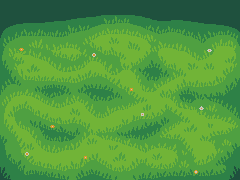
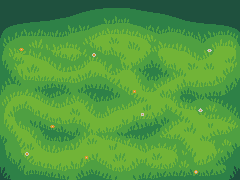
feat: ui button feedback and other visual polish

diff --git a/src/Game.cpp b/src/Game.cpp
@@ -18,6 +18,7 @@ namespace SnakeGame
 		srand(seed);
 
 		InitResources(game.resources);
+		game.background.setTexture(game.resources.background);
 		InitConfig(game.config);
 
 		float gameHeight = (LEVEL_HEIGHT + HUD_HEIGHT) * CELL_SIZE;
@@ -76,6 +77,7 @@ namespace SnakeGame
 
 	void DrawGame(Game &game, sf::RenderTexture &texture)
 	{
+		texture.draw(game.background);
 		switch (game.gameState)
 		{
 		case GameState::MainMenu:
@@ -135,6 +137,16 @@ namespace SnakeGame
 		menu.selected = 0;
 		menu.firstDisplayedItem = 0;
 		game.menuLayers.push_back(menu);
+
+		if (menuState == MenuState::Resolution)
+		{
+			UpdateSubMenuItems(game.menuLayers.back(), game, static_cast<int>(game.config.windowResolution));
+		}
+		else if (menuState == MenuState::Difficulty)
+		{
+			UpdateSubMenuItems(game.menuLayers.back(), game, static_cast<int>(game.config.difficulty));
+		}
+
 		UpdateMenuLayer(game);
 	}
 
@@ -210,7 +222,14 @@ namespace SnakeGame
 
 	void HandleMenuImput(Game &game, const sf::Event &event)
 	{
-		if (event.type == sf::Event::KeyPressed && event.key.code == sf::Keyboard::Escape)
+		static bool enterHeld = false;
+		if (event.type == sf::Event::KeyPressed && event.key.code == sf::Keyboard::Enter)
+		{
+			game.menuLayers.back().items[game.menuLayers.back().selected].pressed = true;
+			UpdateMenuLayer(game);
+			enterHeld = true;
+		}
+		else if (event.type == sf::Event::KeyPressed && event.key.code == sf::Keyboard::Escape)
 		{
 			if (game.menuLayers.size() > 1)
 			{
@@ -222,7 +241,7 @@ namespace SnakeGame
 				SetGameState(game, GameState::GameLoop);
 			}
 		}
-		else if (event.type == sf::Event::KeyPressed && event.key.code == sf::Keyboard::Up)
+		else if (!enterHeld && event.type == sf::Event::KeyPressed && event.key.code == sf::Keyboard::Up)
 		{
 			game.menuLayers.back().selected -= 1;
 			if (game.menuLayers.back().selected < 0)
@@ -231,7 +250,7 @@ namespace SnakeGame
 			}
 			UpdateMenuSelectedItem(game.ui, game.menuLayers.back());
 		}
-		else if (event.type == sf::Event::KeyPressed && event.key.code == sf::Keyboard::Down)
+		else if (!enterHeld && event.type == sf::Event::KeyPressed && event.key.code == sf::Keyboard::Down)
 		{
 			game.menuLayers.back().selected += 1;
 			if (game.menuLayers.back().selected > game.menuLayers.back().items.size() - 1)
@@ -240,45 +259,64 @@ namespace SnakeGame
 			}
 			UpdateMenuSelectedItem(game.ui, game.menuLayers.back());
 		}
-		else if (event.type == sf::Event::KeyPressed && event.key.code == sf::Keyboard::Enter)
+		else if (event.type == sf::Event::KeyReleased && event.key.code == sf::Keyboard::Enter)
 		{
-			switch (game.menuLayers.back().items[game.menuLayers.back().selected].actionType)
+			enterHeld = false;
+			game.menuLayers.back().items[game.menuLayers.back().selected].pressed = false;
+			if (game.menuLayers.back().items[game.menuLayers.back().selected].enabled)
 			{
-			case MenuActionType::SwitchGameState:
-				SetGameState(game, static_cast<GameState>(game.menuLayers.back().items[game.menuLayers.back().selected].actionTarget));
-				break;
-			case MenuActionType::SwitchMenuState:
-				SetMenuState(game, static_cast<MenuState>(game.menuLayers.back().items[game.menuLayers.back().selected].actionTarget));
-				break;
-			case MenuActionType::StartGame:
-				SetGameState(game, GameState::GameLoop);
-				StartGameLoop(game);
-				break;
-			case MenuActionType::PreviousMenu:
-				if (game.menuLayers.size() > 1)
+				switch (game.menuLayers.back().items[game.menuLayers.back().selected].actionType)
 				{
-					game.menuLayers.pop_back();
+				case MenuActionType::SwitchGameState:
+					SetGameState(game, static_cast<GameState>(game.menuLayers.back().items[game.menuLayers.back().selected].actionTarget));
+					break;
+				case MenuActionType::SwitchMenuState:
+					SetMenuState(game, static_cast<MenuState>(game.menuLayers.back().items[game.menuLayers.back().selected].actionTarget));
+					break;
+				case MenuActionType::StartGame:
+					SetGameState(game, GameState::GameLoop);
+					StartGameLoop(game);
+					break;
+				case MenuActionType::PreviousMenu:
+					if (game.menuLayers.size() > 1)
+					{
+						game.menuLayers.pop_back();
+						UpdateMenuLayer(game);
+					}
+					break;
+				case MenuActionType::SetScreenScale:
+					game.config.windowResolution = static_cast<WindowResolution>(game.menuLayers.back().items[game.menuLayers.back().selected].actionTarget);
+					SaveConfig(game.config);
+					SetRendererResolution(game.renderer, game.config.windowResolution);
+					UpdateSubMenuItems(game.menuLayers.back(), game, static_cast<int>(game.config.windowResolution));
 					UpdateMenuLayer(game);
-				}
-				break;
-			case MenuActionType::SetScreenScale:
-				game.config.windowResolution = static_cast<WindowResolution>(game.menuLayers.back().items[game.menuLayers.back().selected].actionTarget);
-				SaveConfig(game.config);
-				SetRendererResolution(game.renderer, game.config.windowResolution);
-				break;
-			case MenuActionType::SetDifficulty:
-				game.config.difficulty = static_cast<GameDifficulty>(game.menuLayers.back().items[game.menuLayers.back().selected].actionTarget);
-				SaveConfig(game.config);
-				if (game.menuLayers.size() > 1)
-				{
-					game.menuLayers.pop_back();
+					break;
+				case MenuActionType::SetDifficulty:
+					game.config.difficulty = static_cast<GameDifficulty>(game.menuLayers.back().items[game.menuLayers.back().selected].actionTarget);
+					SaveConfig(game.config);
+					UpdateSubMenuItems(game.menuLayers.back(), game, static_cast<int>(game.config.difficulty));
 					UpdateMenuLayer(game);
+					break;
+				default:
+					break;
 				}
-				break;
-			default:
-				break;
 			}
 		};
+	}
+
+	void UpdateSubMenuItems(Menu &menu, Game &game, int actionTarget)
+	{
+		for (int i = 0; i < menu.items.size(); i++)
+		{
+			if (menu.items[i].actionTarget == actionTarget)
+			{
+				menu.items[i].enabled = false;
+			}
+			else
+			{
+				menu.items[i].enabled = true;
+			}
+		}
 	}
 
 	int GetScoreMultiplier(GameDifficulty gameDifficulty)

diff --git a/src/UI.cpp b/src/UI.cpp
@@ -32,6 +32,13 @@ namespace SnakeGame
         ui.menuLabel.setFillColor(sf::Color::White);
         SetTextRelativePosition(ui.menuLabel, 0.5f, 0.1f);
 
+        ui.menuLabelShadow.setString("menuLabel");
+        ui.menuLabelShadow.setFont(resources.font);
+        ui.menuLabelShadow.setStyle(sf::Text::Bold);
+        ui.menuLabelShadow.setCharacterSize(48);
+        ui.menuLabelShadow.setFillColor(COLOR_SHADOW);
+        ui.menuLabelShadow.setPosition({ui.menuLabel.getPosition().x + 2, ui.menuLabel.getPosition().y + 2});
+
         ui.menuButtons.clear();
         ui.menuButtons.resize(NUM_MENU_BUTTONS);
         for (size_t i = 0; i < ui.menuButtons.size(); ++i)
@@ -94,6 +101,8 @@ namespace SnakeGame
         {
             ui.menuLabel.setString(menu.label);
             SetTextRelativeOrigin(ui.menuLabel, 0.5f, 0.5f);
+            ui.menuLabelShadow.setString(menu.label);
+            SetTextRelativeOrigin(ui.menuLabelShadow, 0.5f, 0.5f);
         }
         else if (menu.type == MenuType::SubMenu)
         {
@@ -105,7 +114,8 @@ namespace SnakeGame
         {
             if (i + menu.firstDisplayedItem < menu.items.size())
             {
-                UpdateMenuBottonText(ui.menuButtons[i], menu.items[i + menu.firstDisplayedItem].label);
+                MenuItem &item = menu.items[i + menu.firstDisplayedItem];
+                UpdateMenuBottonText(ui.menuButtons[i], item.label, item.enabled, item.pressed);
             }
         }
     }
@@ -122,7 +132,10 @@ namespace SnakeGame
             menu.firstDisplayedItem = menu.selected;
             UpdateMenuUI(ui, menu);
         }
-        sf::FloatRect itemRect = ui.menuButtons[menu.selected - menu.firstDisplayedItem].sprite.getGlobalBounds();
+
+        sf::FloatRect itemRect = ui.menuButtons[menu.selected - menu.firstDisplayedItem].spriteEnabled.getGlobalBounds();
+        if (!menu.items[menu.selected].enabled || menu.items[menu.selected].pressed)
+            itemRect.top++;
         UpdateSelectorPosition(ui.selector, itemRect);
 
         if (ui.menuButtons.size() < menu.items.size())
@@ -136,6 +149,7 @@ namespace SnakeGame
     void DrawMenuUI(UI &ui, Menu &menu, sf::RenderTexture &texture)
     {
         texture.draw(ui.tint);
+        texture.draw(ui.menuLabelShadow);
         texture.draw(ui.menuLabel);
         if (menu.type == MenuType::SubMenu)
         {
@@ -149,7 +163,13 @@ namespace SnakeGame
         {
             if (i < menu.items.size())
             {
-                texture.draw(ui.menuButtons[i].sprite);
+                if (menu.items[menu.firstDisplayedItem + i].pressed)
+                    texture.draw(ui.menuButtons[i].spritePressed);
+                else if (menu.items[menu.firstDisplayedItem + i].enabled)
+                    texture.draw(ui.menuButtons[i].spriteEnabled);
+                else
+                    texture.draw(ui.menuButtons[i].spriteDisabled);
+
                 texture.draw(ui.menuButtons[i].label);
             }
         }
@@ -197,26 +217,32 @@ namespace SnakeGame
         button.label.setFont(resources.font);
         button.label.setCharacterSize(16);
         button.label.setFillColor(COLOR_TEXT);
-        button.sprite.setTexture(resources.button);
+        button.spriteEnabled.setTexture(resources.buttonEnabled);
+        button.spriteDisabled.setTexture(resources.buttonDisabled);
+        button.spritePressed.setTexture(resources.buttonPressed);
 
-        sf::FloatRect spriteRect = button.sprite.getLocalBounds();
-        sf::Vector2f origin = {std::round(spriteRect.width / 2), 0.f};
-        button.sprite.setOrigin(origin);
+        sf::FloatRect spriteRect = button.spriteEnabled.getLocalBounds();
+        button.spriteEnabled.setOrigin({std::round(spriteRect.width / 2), 0.f});
+        button.spriteDisabled.setOrigin({std::round(spriteRect.width / 2), -1.f});
+        button.spritePressed.setOrigin({std::round(spriteRect.width / 2), -1.f});
     }
 
     void UpdateMenuBottonPosition(Button &button, int positionY)
     {
         sf::Vector2f position = {std::round(LEVEL_WIDTH * CELL_SIZE / 2), (float)positionY};
-        button.sprite.setPosition(position);
+        button.spriteEnabled.setPosition(position);
+        button.spriteDisabled.setPosition(position);
+        button.spritePressed.setPosition(position);
         button.label.setPosition(position);
     }
 
-    void UpdateMenuBottonText(Button &button, std::string text)
+    void UpdateMenuBottonText(Button &button, std::string text, bool enabled, bool pressed)
     {
         button.label.setString(text);
-        sf::FloatRect textRect = button.label.getLocalBounds();
-        sf::Vector2f origin = {std::round(textRect.width / 2), 4.f};
-        button.label.setOrigin(origin);
+        if (!enabled || pressed)
+            button.label.setOrigin({std::round(button.label.getLocalBounds().width / 2), 3.f});
+        else
+            button.label.setOrigin({std::round(button.label.getLocalBounds().width / 2), 4.f});
     }
 
     void UpdateSelectorPosition(Selector &selector, sf::FloatRect target)

diff --git a/src/Resources.cpp b/src/Resources.cpp
@@ -12,7 +12,10 @@ namespace SnakeGame
         assert(resources.background.loadFromFile(std::string(RESOURCES_PATH) + "/graphics/background.png"));
         assert(resources.font.loadFromFile(std::string(RESOURCES_PATH) + "/fonts/monogram.ttf"));
 
-        resources.button = CreateNineSliceTexture(resources.atlas, GetTextureRect(TextureID::UIFrame1), 90, 19);
+        resources.buttonEnabled = CreateNineSliceTexture(resources.atlas, GetTextureRect(TextureID::UIFrame1), 90, 19);
+        resources.buttonDisabled = CreateNineSliceTexture(resources.atlas, GetTextureRect(TextureID::UIFrame3), 90, 18);
+        resources.buttonPressed = CreateNineSliceTexture(resources.atlas, GetTextureRect(TextureID::UIFrame2), 90, 18);
+
         resources.subMenu = CreateNineSliceTexture(resources.atlas, GetTextureRect(TextureID::UIFrame3), 120, 113);
         resources.subMenuTitle = CreateNineSliceTexture(resources.atlas, GetTextureRect(TextureID::UIFrame2), 100, 17);
         resources.hud = CreateNineSliceTexture(resources.atlas, GetTextureRect(TextureID::HUD), LEVEL_WIDTH * CELL_SIZE, HUD_HEIGHT * CELL_SIZE);

diff --git a/include/UI.h b/include/UI.h
@@ -8,7 +8,9 @@ namespace SnakeGame
 {
     struct Button
     {
-        sf::Sprite sprite;
+        sf::Sprite spriteEnabled;
+        sf::Sprite spriteDisabled;
+        sf::Sprite spritePressed;
         sf::Text label;
     };
 
@@ -31,6 +33,7 @@ namespace SnakeGame
         Selector selector;
         std::vector<Button> menuButtons;
         sf::Text menuLabel;
+        sf::Text menuLabelShadow;
         sf::RectangleShape tint;
 
         sf::Sprite menuUp;
@@ -50,6 +53,6 @@ namespace SnakeGame
     void DrawHud(UI &ui, sf::RenderTexture &texture);
     void InitMenuButton(Button &button, Resources &resources);
     void UpdateMenuBottonPosition(Button &button, int positionY);
-    void UpdateMenuBottonText(Button &button, std::string text);
+    void UpdateMenuBottonText(Button &button, std::string text, bool enabled, bool pressed);
     void UpdateSelectorPosition(Selector &selector, sf::FloatRect target);
 }

diff --git a/src/Level.cpp b/src/Level.cpp
@@ -10,7 +10,6 @@ namespace SnakeGame
     {
         LoadLevel(level.config, std::string(RESOURCES_PATH) + "/levels/level1.lvl");
 
-        level.background.setTexture(resources.background);
         for (int x = 0; x < LEVEL_WIDTH; x++)
         {
             for (int y = 0; y < LEVEL_HEIGHT; y++)
@@ -50,7 +49,6 @@ namespace SnakeGame
 
     void DrawLevel(Level &level, sf::RenderTexture &texture)
     {
-        texture.draw(level.background);
         texture.draw(level.apple.sprite);
         for (int i = 0; i < level.walls.size(); i++)
         {

diff --git a/include/Game.h b/include/Game.h
@@ -19,6 +19,8 @@ namespace SnakeGame
 		Renderer renderer;
 		Resources resources;
 
+		sf::Sprite background;
+
 		GameState gameState;
 		Level level;
 		Snake snake;
@@ -43,5 +45,6 @@ namespace SnakeGame
 	void StartGameLoop(Game &game);
 	void UpdateGameLoop(Game &game, const float deltaTime);
 	void HandleMenuImput(Game &game, const sf::Event &event);
+	void UpdateSubMenuItems(Menu &menu, Game &game, int actionTarget);
 	int GetScoreMultiplier(GameDifficulty gameDifficulty);
 }

diff --git a/include/Resources.h b/include/Resources.h
@@ -69,7 +69,9 @@ namespace SnakeGame
         sf::Texture background;
         sf::Font font;
 
-        sf::Texture button;
+        sf::Texture buttonEnabled;
+        sf::Texture buttonDisabled;
+        sf::Texture buttonPressed;
         sf::Texture subMenu;
         sf::Texture subMenuTitle;
 

diff --git a/include/Constants.h b/include/Constants.h
@@ -15,6 +15,6 @@ namespace SnakeGame
 	const int NUM_MENU_BUTTONS = 4;
 
 	const sf::Color COLOR_TINT(0, 0, 0, 100);
-	const sf::Color COLOR_BASE(128, 107, 91);
+	const sf::Color COLOR_SHADOW(0, 0, 0, 150);
 	const sf::Color COLOR_TEXT(54, 46, 40);
 }

diff --git a/src/main.cpp b/src/main.cpp
@@ -26,7 +26,7 @@ int main()
 
 		UpdateGame(game, deltaTime);
 
-		game.renderer.gameTexture.clear(COLOR_BASE);
+		game.renderer.gameTexture.clear();
 		DrawGame(game, game.renderer.gameTexture);
 		game.renderer.gameTexture.display();
 

diff --git a/include/Level.h b/include/Level.h
@@ -41,7 +41,6 @@ namespace SnakeGame
         CellType cells[LEVEL_WIDTH][LEVEL_HEIGHT];
         std::vector<Wall> walls;
         Apple apple;
-        sf::Sprite background;
 
         int countEmptyCells;
     };

diff --git a/include/Menu.h b/include/Menu.h
@@ -35,6 +35,8 @@ namespace SnakeGame
         std::string label;
         MenuActionType actionType;
         int actionTarget;
+        bool enabled = true;
+        bool pressed = false;
     };
 
     struct Menu
